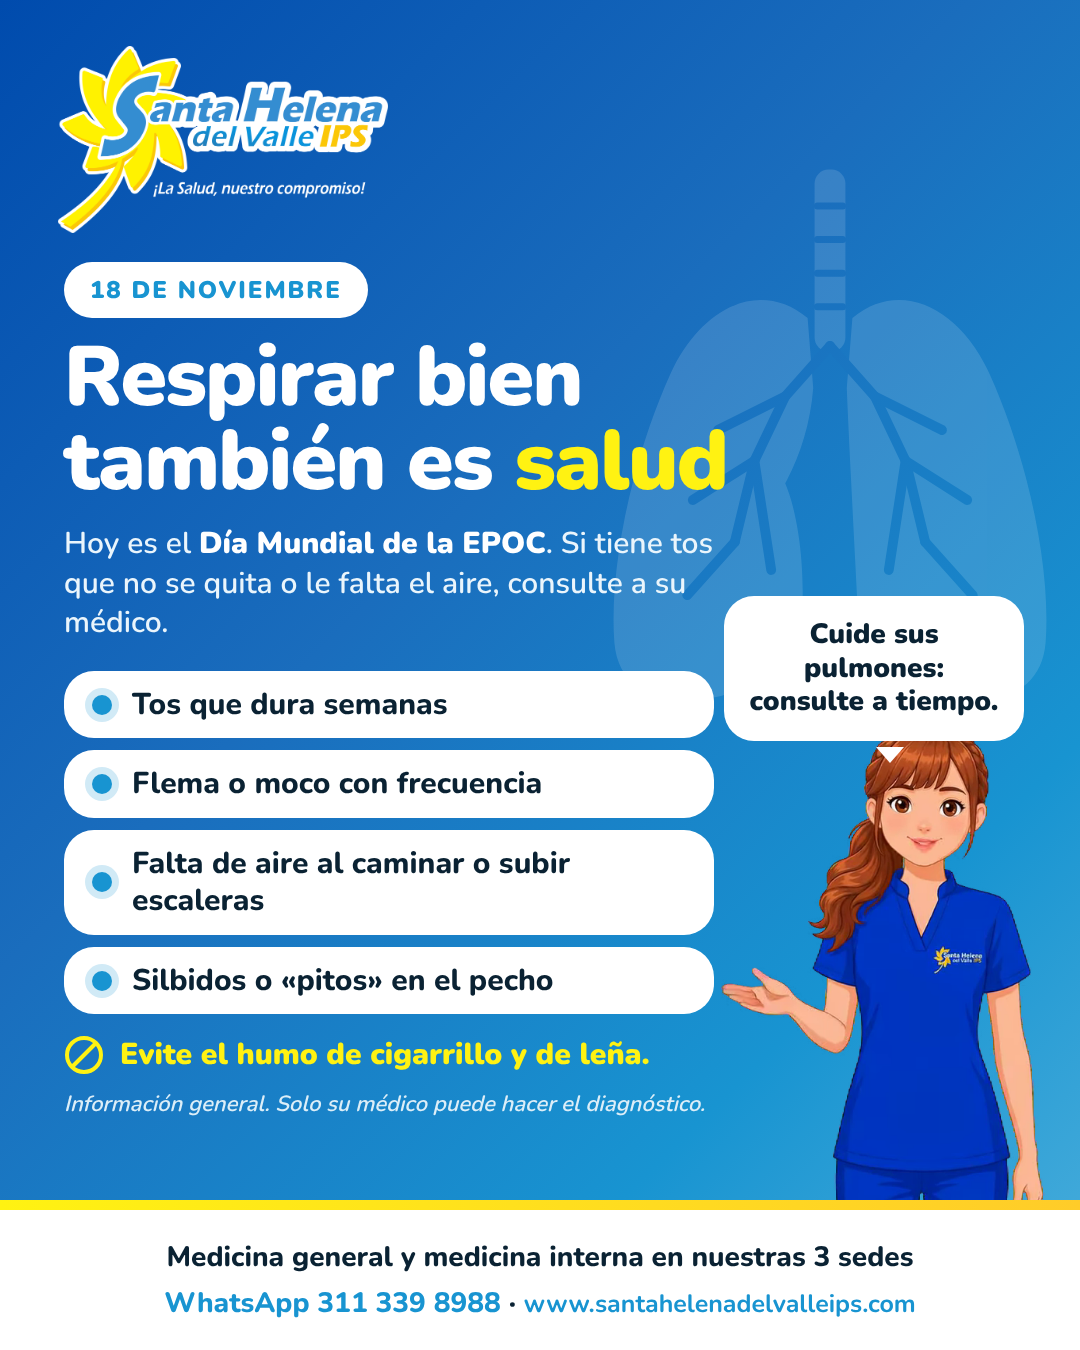
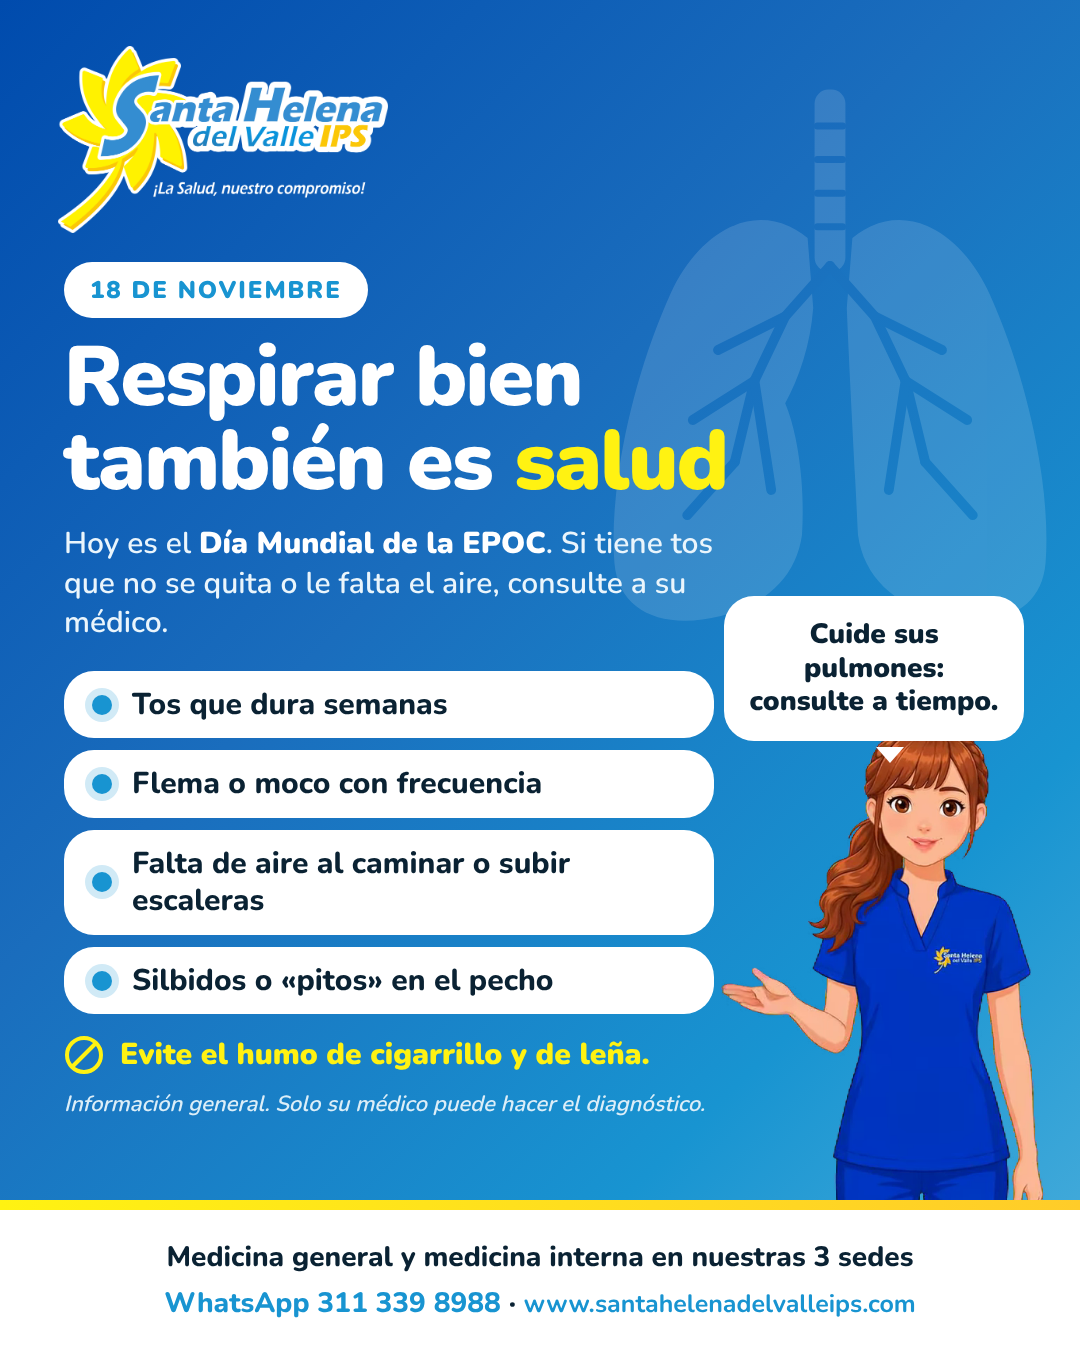
Post EPOC: pulmones de fondo más arriba
Claude-Session: https://claude.ai/code/session_01KgBCaN2Nb7mn6jAyyriR7q

diff --git a/entregas/creativo-instagram/2026-11-18-post-dia-epoc/fuente/post.html b/entregas/creativo-instagram/2026-11-18-post-dia-epoc/fuente/post.html
@@ -12,7 +12,7 @@ h1{margin-top:18px;font-weight:900;font-size:88px;letter-spacing:-.02em;line-hei
 h1 span{color:#FFF212}
 .apoyo{margin-top:20px;width:680px;font-size:30px;line-height:1.32;font-weight:600;color:#EAF5FC}
 .apoyo b{color:#fff;font-weight:900}
-.pulmones{position:absolute;right:-30px;top:150px;width:560px;height:588px}
+.pulmones{position:absolute;right:-30px;top:70px;width:560px;height:588px}
 ul{list-style:none;margin-top:28px;width:650px;display:flex;flex-direction:column;gap:12px}
 li{background:#fff;color:#0A2233;border-radius:30px;padding:15px 28px;font-size:30px;line-height:1.25;font-weight:800;display:flex;gap:20px;align-items:center}
 li::before{content:"";flex:none;width:20px;height:20px;border-radius:50%;background:#1894D1;box-shadow:0 0 0 7px rgba(24,148,209,.2)}
